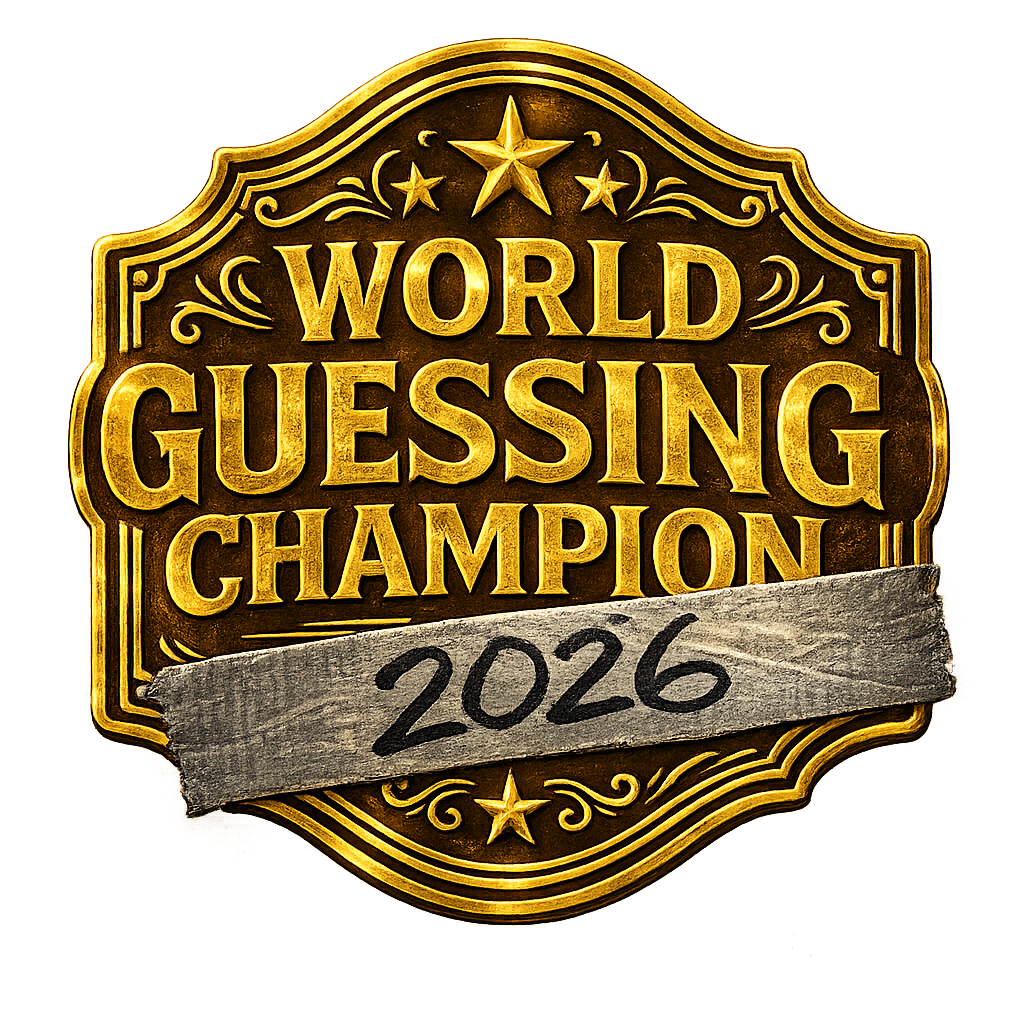
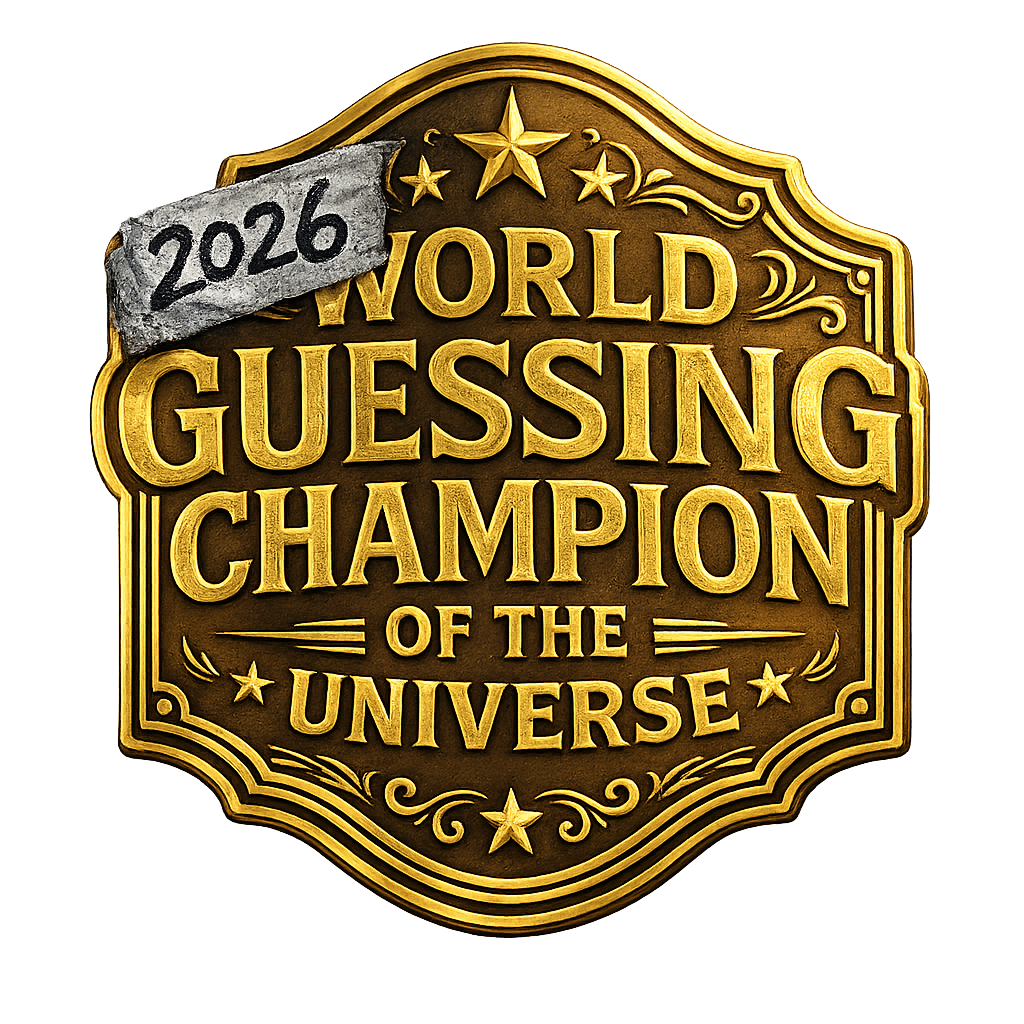
Tag team trophy when there's a tie for first

diff --git a/src/App.jsx b/src/App.jsx
@@ -834,7 +834,7 @@ function BoardTab({ subs, results, loading, lastRefresh, onRefresh }) {
       {gameOver && topScore>0 && (
         <div style={{ background:"linear-gradient(135deg,rgba(200,160,40,0.12),rgba(200,160,40,0.03))", border:`1px solid ${GOLD}50`, borderRadius:14, padding:"28px 16px 22px", textAlign:"center", marginBottom:18, position:"relative" }}>
           <div style={{ position:"absolute", top:0, left:0, right:0, height:2, background:`linear-gradient(90deg,transparent,${GOLD},transparent)` }} />
-          <img src="./trophy/trophy.png" alt="World Guessing Champion 2026" style={{ width:180, height:180, objectFit:"contain", margin:"0 auto 14px", display:"block", animation:"trophyRock 6s ease-in-out infinite" }} />
+          <img src={topPlayers.length > 1 ? "./trophy/tag-team-trophy.png" : "./trophy/trophy.png"} alt={topPlayers.length > 1 ? "World Guessing Tag Team Champions 2026" : "World Guessing Champion 2026"} style={{ width:180, height:180, objectFit:"contain", margin:"0 auto 14px", display:"block", animation:"trophyRock 6s ease-in-out infinite" }} />
           <style>{`@keyframes trophyRock { 0%, 100% { transform: rotate(-2deg) scale(1); } 25% { transform: rotate(2deg) scale(1.02); } 50% { transform: rotate(-1.5deg) scale(1); } 75% { transform: rotate(2.5deg) scale(1.01); } }`}</style>
           {topPlayers.map(p=>(
             <div key={p.name} style={{ fontSize:28, fontWeight:900, color:GOLD2, lineHeight:1.1 }}>{p.name}</div>
